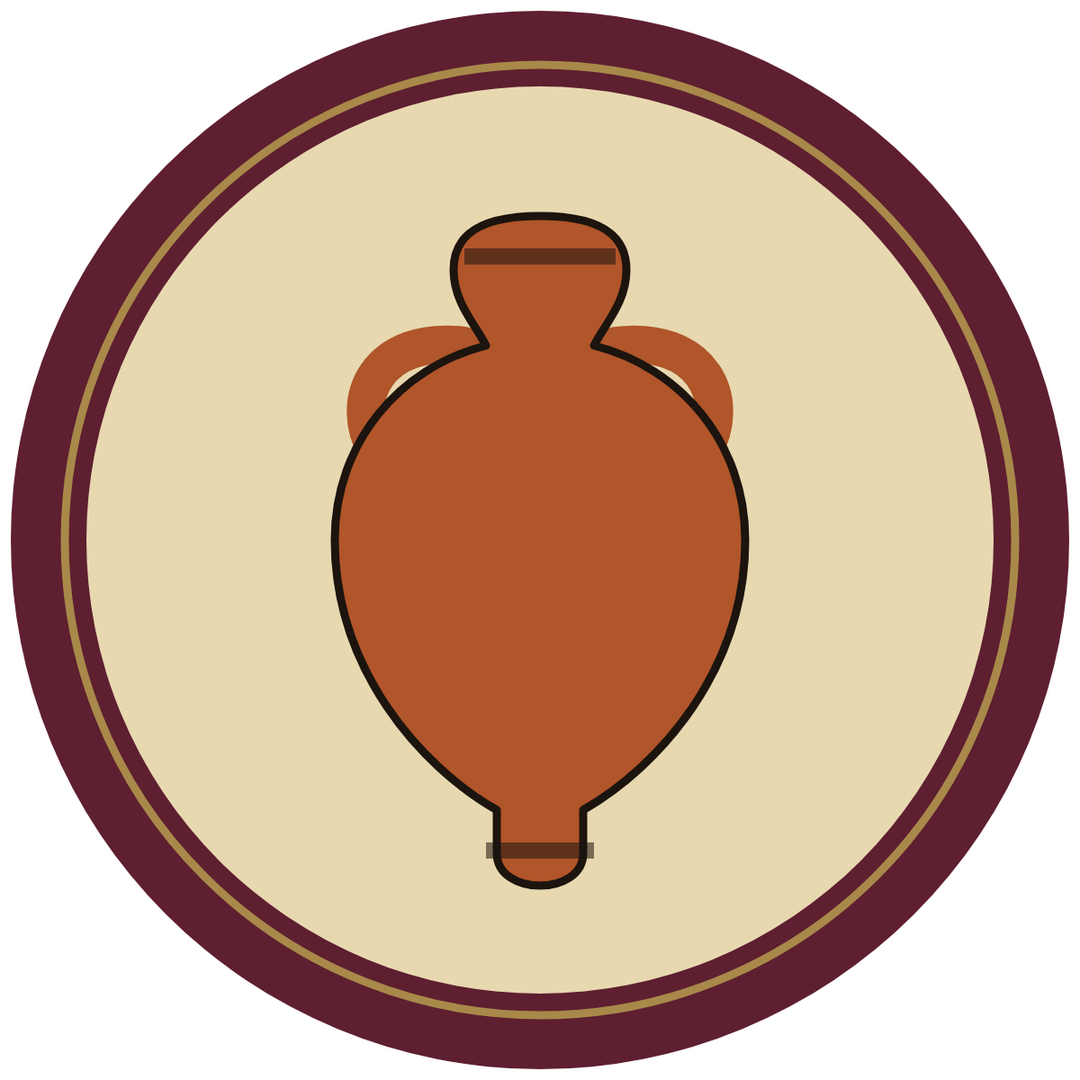
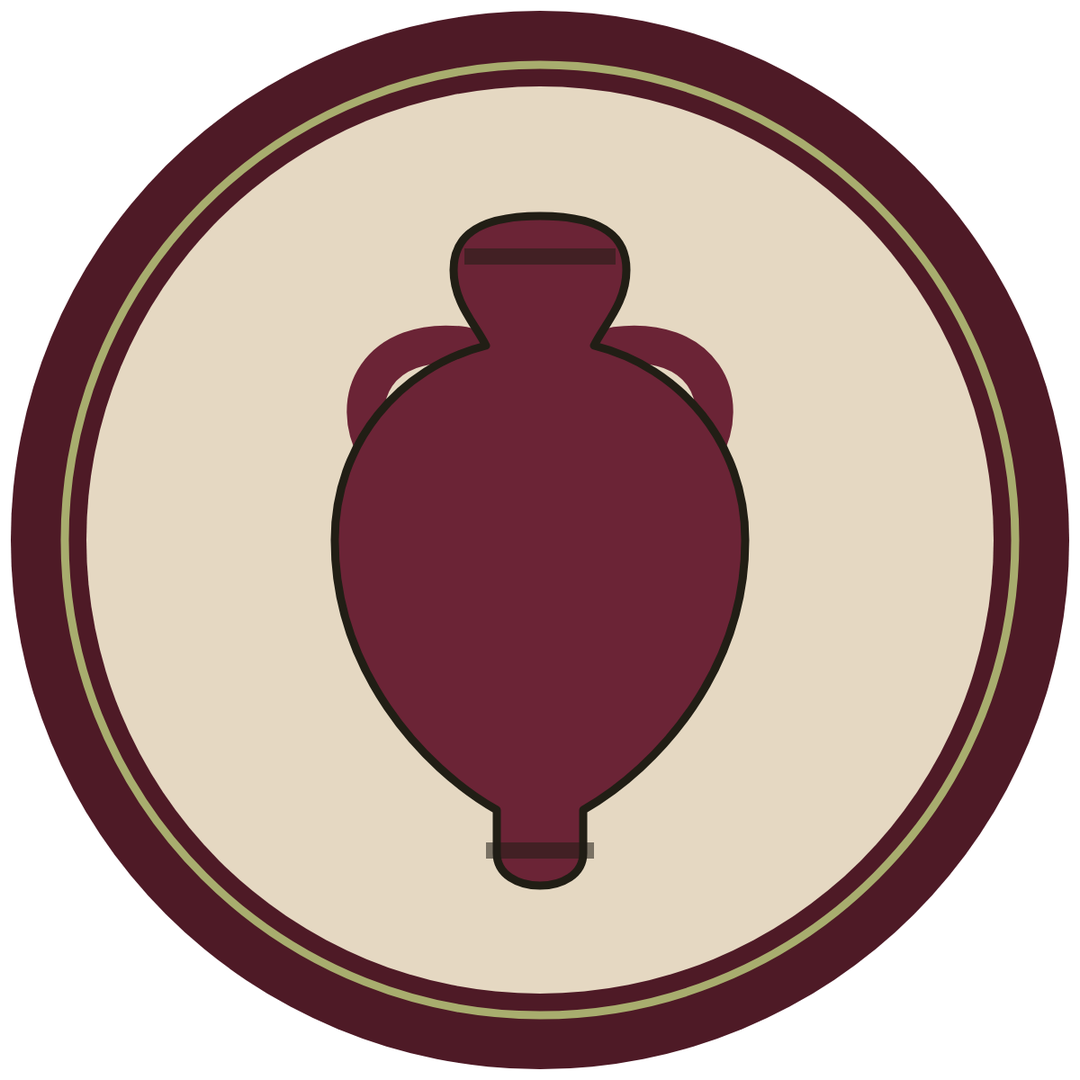
Recolor brand identity to the site's actual palette
Previous pass invented new hex values (bordeaux/military-green/clay
tones that didn't exist anywhere). This rebuilds the mark, all logo
lockups, favicons, and the Instagram profile PNG using only the ten
CSS variables already defined in index.html's :root, so social assets
and the live site are provably the same system rather than a lookalike.

diff --git a/BRAND_IDENTITY.md b/BRAND_IDENTITY.md
@@ -7,36 +7,37 @@ assets later.
 
 ## Where the palette comes from
 
-Blera's rock-cut Etruscan tombs — the ones every Rasna departure
-actually visits — turned up black-figure and bucchero pottery: matte
-black, fired clay red-orange, a pale reserved ground. That's the base
-of this system. Bordeaux comes from the wine poured at the table with
-local families; military green from the olive groves in October —
-deliberately not the lavender/pastel-lemon palette most "authentic
-Tuscany" accounts already use. The site's existing Etruscan color
-scheme (olive/bordeaux/earth, Cormorant Garamond) already had these
-bones — this system sharpens and documents it, it doesn't replace it.
+This is **not a new palette** — every value below is copied verbatim
+from `index.html`'s own `:root`. The site already had a wine-bordeaux,
+a deeper rust, an olive military green, a warm buff, and a sage-gold
+that the hero and nav already lean on. This doc just names each
+color's job and builds the new amphora logo out of the same ten
+variables, so social content and the site read as one system instead
+of the palette living only in scattered CSS.
 
 ## Colors
 
-| Role | Name | Hex |
-|---|---|---|
-| Primary | Bordeaux | `#5E1F30` |
-| Primary | Military Green | `#4B5632` |
-| Accent (vase) | Fired Clay / Terracotta | `#B1552A` |
-| Accent (vase) | Buff Slip | `#E8D8B0` |
-| Accent (vase) | Vase Black (ink) | `#1C140E` |
-| Accent (vase) | Antique Gold (hairlines only) | `#A8894A` |
-| Neutral | Parchment (ground) | `#F2EBDD` |
-| Neutral | Stone (captions) | `#7C7A5C` |
+All ten are the exact `index.html` variables — same names, same hex.
+
+| Role | Name | Variable | Hex |
+|---|---|---|---|
+| Primary | Bordeaux | `--terracotta` | `#6B2436` |
+| Primary | Military Green | `--olive` | `#5C6B3C` |
+| Vase tone | Rust (mark's outer ring) | `--rust` | `#4E1A26` |
+| Vase tone | Tufo (mark's ground / panels) | `--tufo` | `#E5D8C2` |
+| Vase tone | Earth (ink / mark outline) | `--earth` | `#211E15` |
+| Vase tone | Gold (dark-background accent) | `--gold` | `#A8AD6E` |
+| Neutral | Cream (page background) | `--cream` | `#F2EBDD` |
+| Neutral | Deep (hero/nav background) | `--deep` | `#170B0D` |
+| Neutral | Stone (captions) | `--stone` | `#7C7A5C` |
+| Neutral | Card | `--card-bg` | `#FBF7EF` |
 
 Two primaries (bordeaux + military green) should dominate every post or
-page. The vase tones are accents — terracotta and gold especially
-should never fill a large background, only icons, dividers, and small
-details. This maps closely onto the CSS variables already in
-`index.html` (`--terracotta`, `--olive`, `--gold`, `--tufo`, `--cream`,
-`--deep`) — no site rebuild needed, just tighter usage discipline going
-forward.
+page — exactly how the live site already uses `--terracotta` for CTA
+buttons/badges and `--olive` for the hero's ambient glow. Gold stays a
+dark-background accent (nav logo, hero headline — its existing job);
+don't introduce it as a light-background color. No new hex values,
+just tighter, named usage.
 
 ## Typography
 
